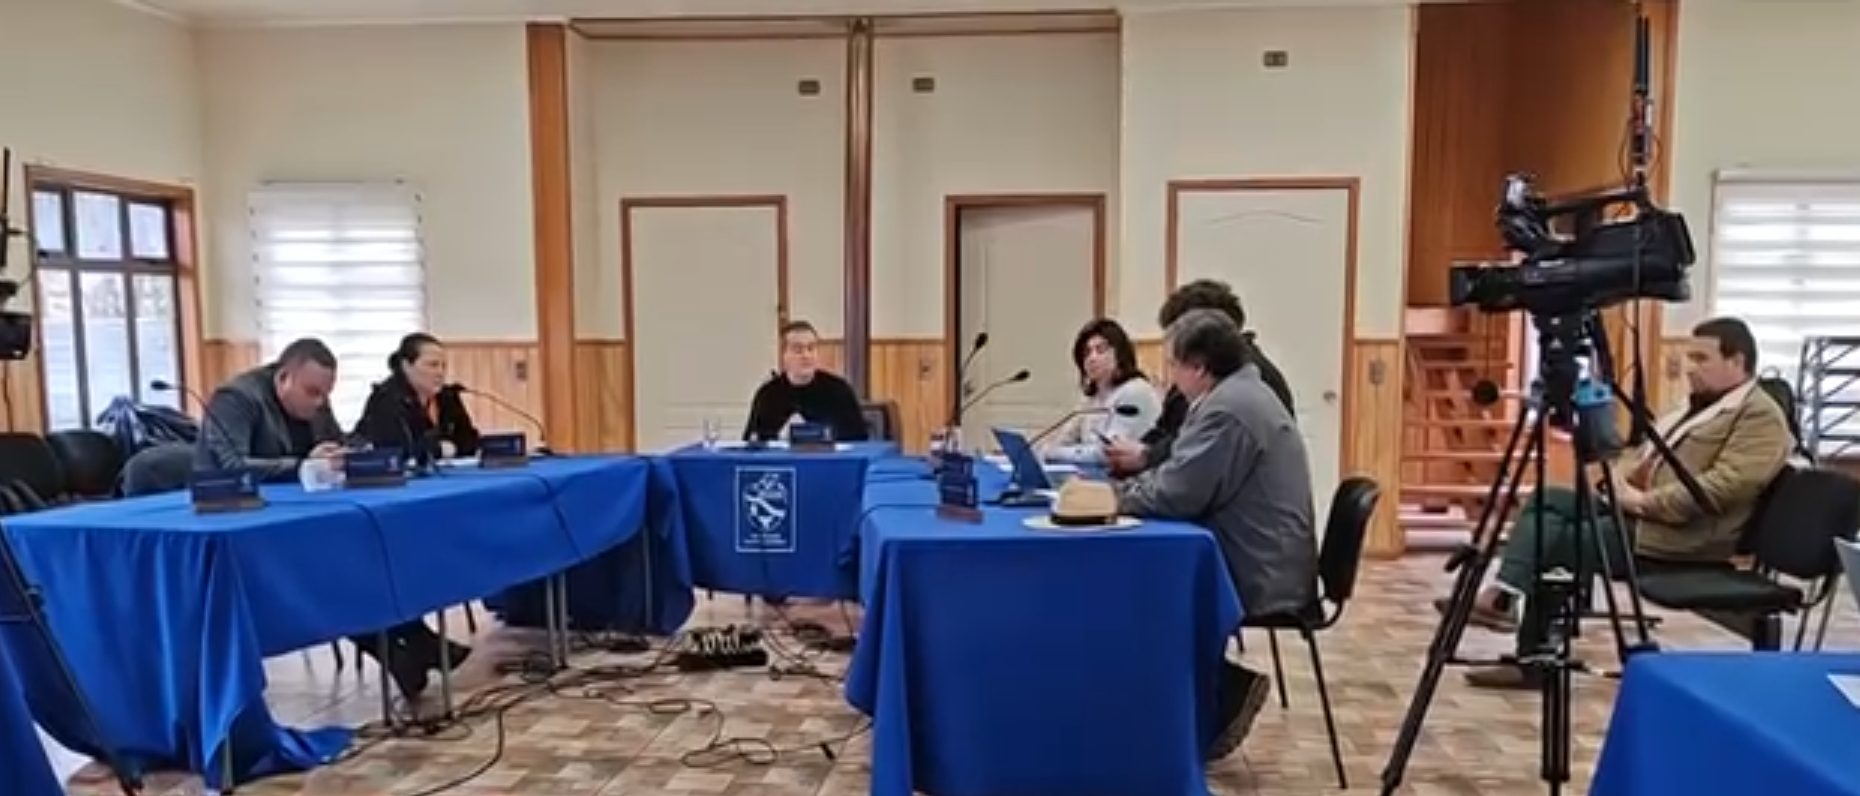
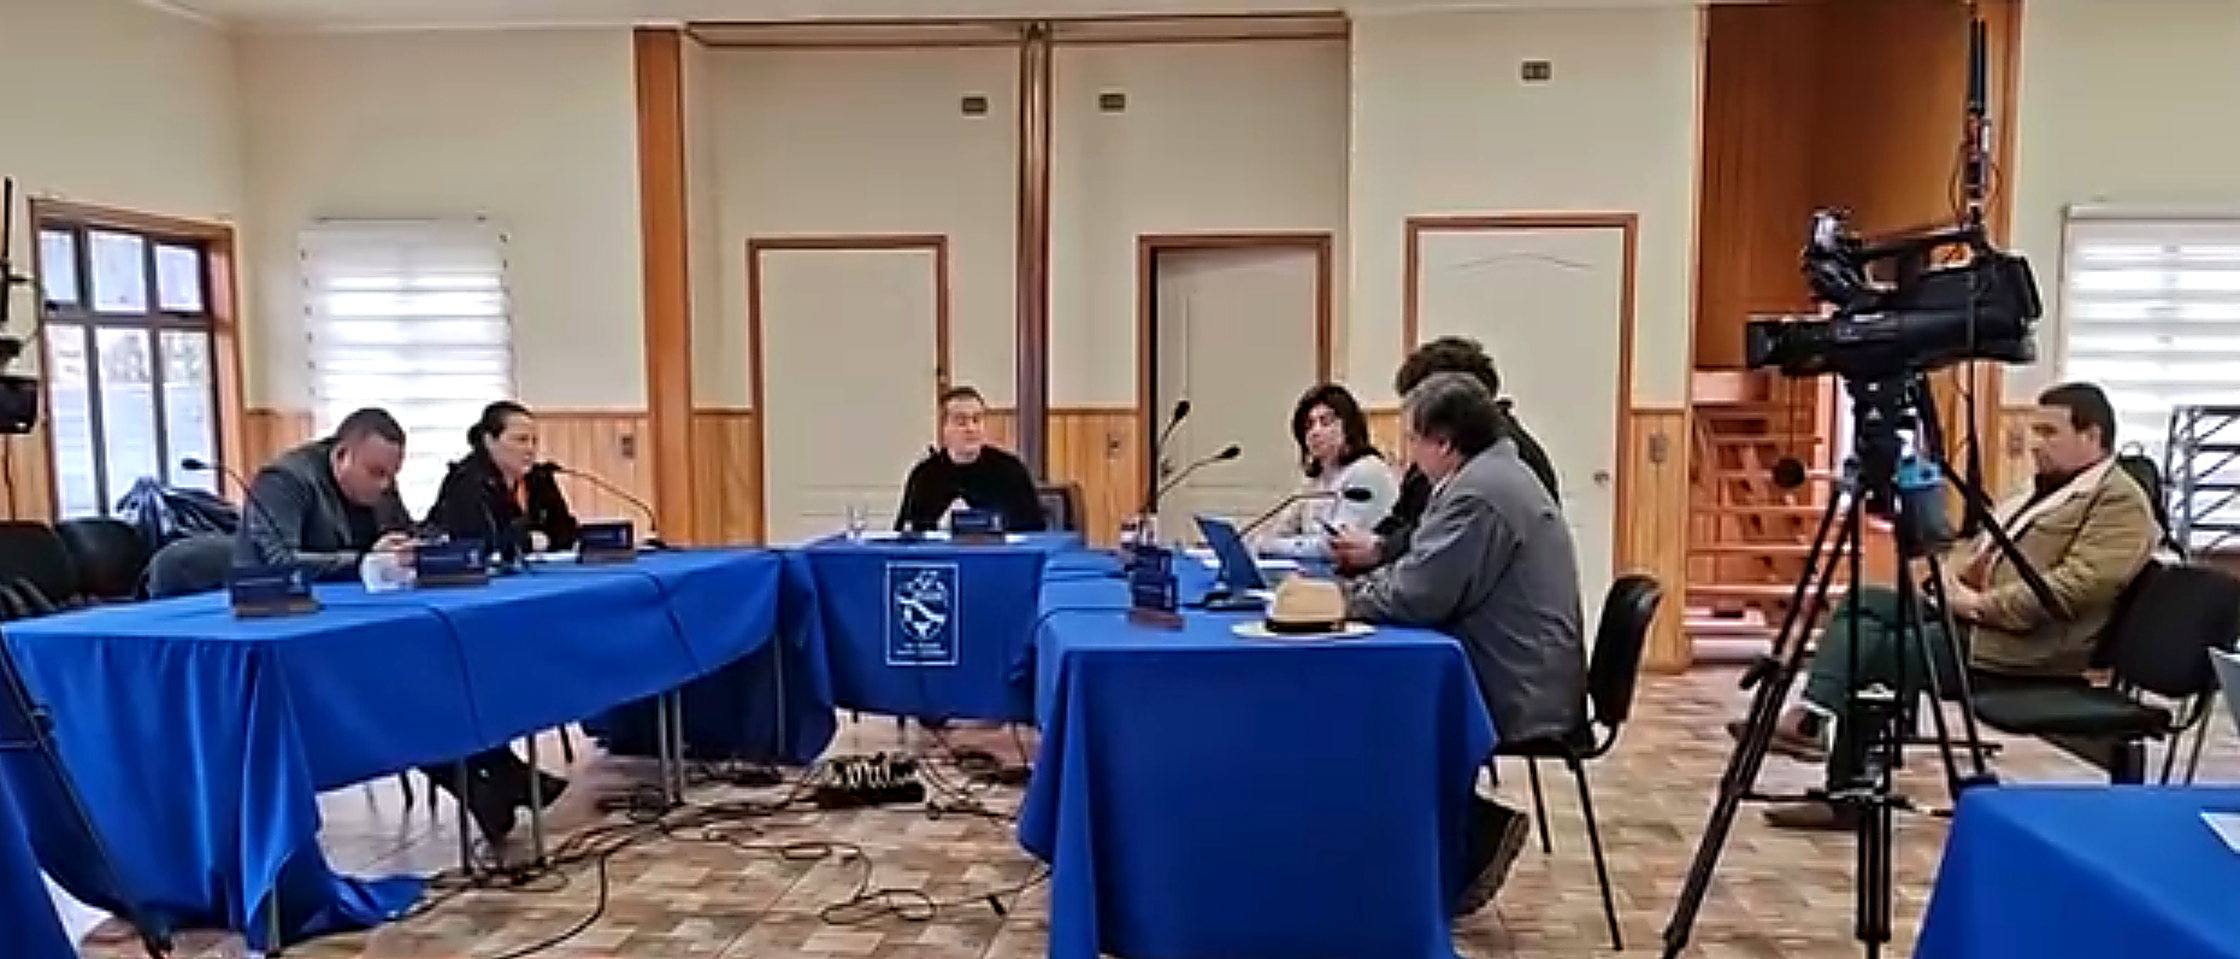
Mejora la nitidez de la foto de la noticia del Concejo Municipal
En la columna angosta de la tarjeta había que recortar la foto al 30%
de su ancho y ampliarla casi 2x, lo que exageraba el desenfoque propio
del video de origen. Ahora la nota usa un formato panorámico con la
foto a ancho completo arriba: se ve la sala entera y la imagen se
reduce en vez de ampliarse.

- Nuevo modificador .noticia.panoramica (reemplaza a .invertida, que
  ya no se usa), con el ancho del texto acotado a 74ch.
- La imagen se reprocesa desde el frame original a 2240x959 (2x del
  ancho de la tarjeta) con máscara de enfoque y realce de contraste.

Claude-Session: https://claude.ai/code/session_01K9m7189Yzz8rBW7XdBwF5j

diff --git a/index.html b/index.html
@@ -137,9 +137,13 @@ a{color:var(--verde-2)}
 .noticia.destacada{grid-column:1/-1}
 @media(min-width:900px){
   .noticia.destacada{flex-direction:row}
-  .noticia.destacada.invertida{flex-direction:row-reverse}
   .noticia.destacada .noticia-foto{flex:0 0 46%}
 }
+/* Nota a ancho completo con la foto arriba: para imágenes panorámicas,
+   que en una columna angosta habría que recortar y ampliar demasiado. */
+.noticia.panoramica{grid-column:1/-1}
+.noticia.panoramica .noticia-foto img{height:auto; min-height:0}
+.noticia.panoramica .noticia-cuerpo>*{max-width:74ch}
 .noticia-foto{margin:0; background:#E8E6DE}
 .noticia-foto img{width:100%; height:100%; min-height:220px; object-fit:cover}
 .noticia-cuerpo{padding:clamp(20px,2.6vw,32px); display:flex; flex-direction:column; justify-content:center; flex:1; min-width:0}
@@ -411,9 +415,9 @@ body:not([data-funciones="pausa"]) .aviso-pausa{display:none}
           </div>
         </article>
 
-        <article class="noticia destacada invertida">
+        <article class="noticia panoramica">
           <figure class="noticia-foto">
-            <img src="Noticias/ConcejoMunicipal-RioBueno.jpeg" width="1860" height="796" loading="lazy" decoding="async"
+            <img src="Noticias/ConcejoMunicipal-RioBueno.jpeg" width="2240" height="959" loading="lazy" decoding="async"
                  alt="Sesión del Concejo Municipal de Río Bueno durante la exposición de la Corporación sobre la protección de las aguas del río Bueno.">
           </figure>
           <div class="noticia-cuerpo">
